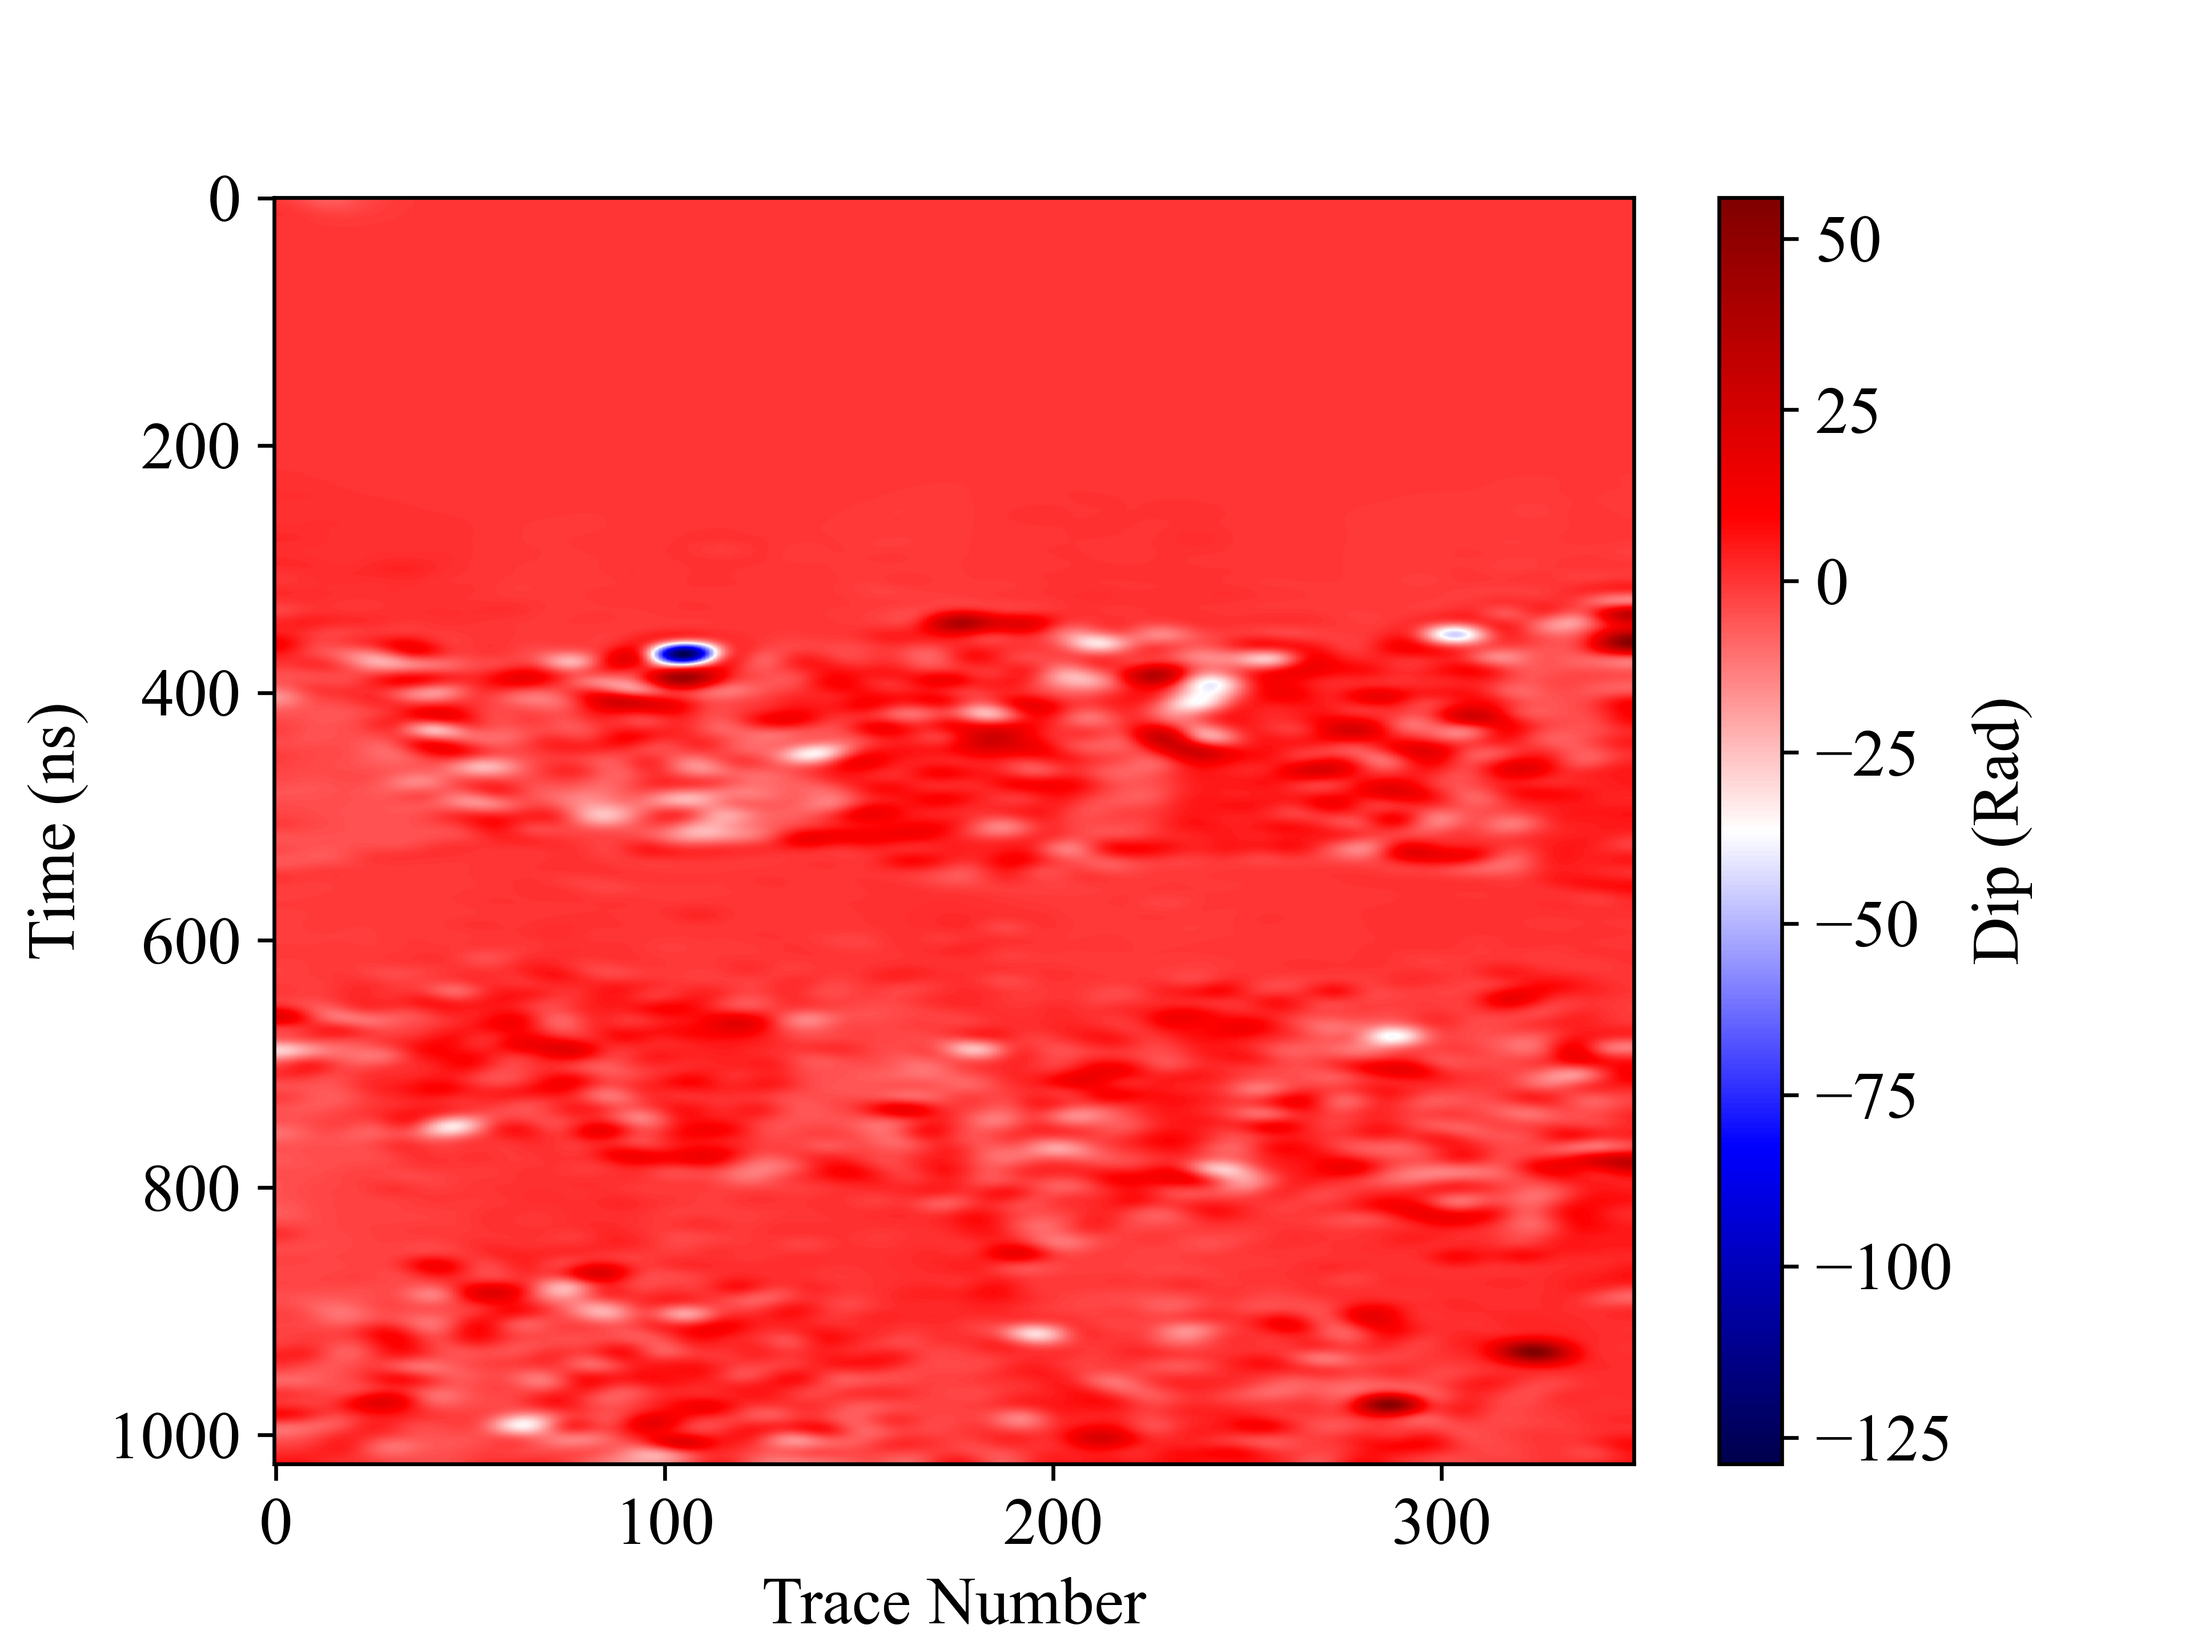
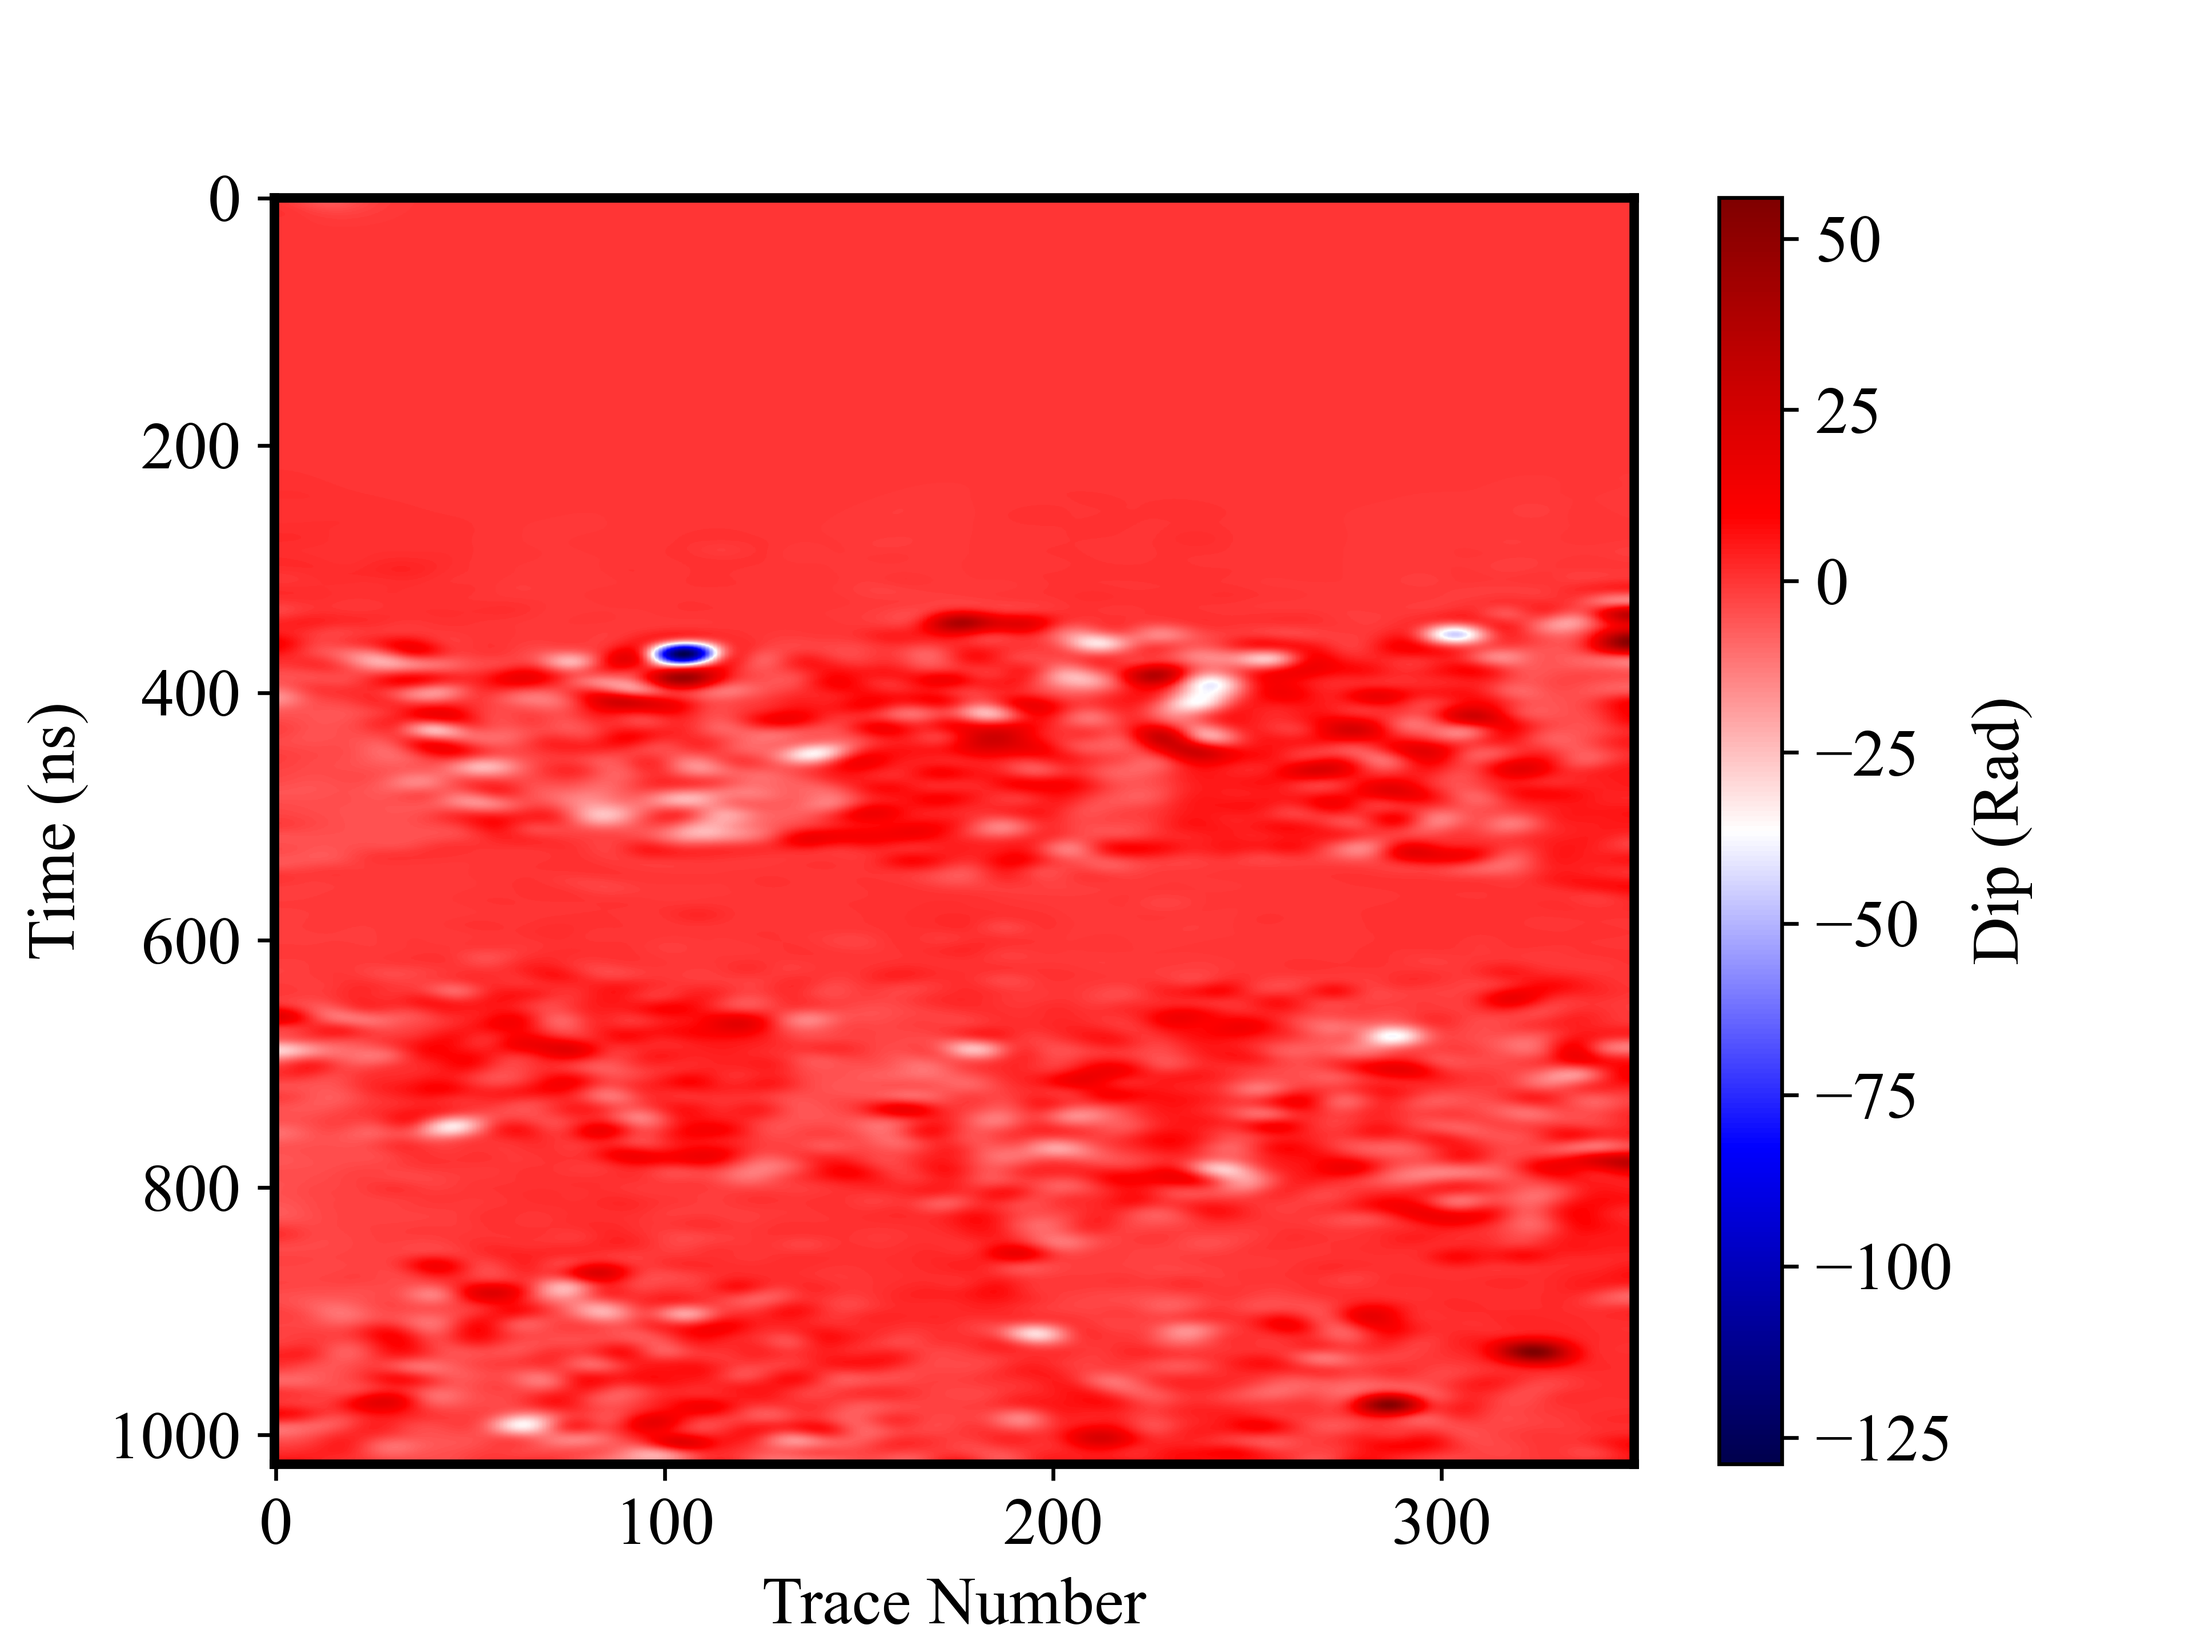
Updated codes for bold axis boundaries

Changed region(s): [[0.125, 0.875, 0.75, 0.9062], [0.125, 0.0938, 0.75, 0.125]]

diff --git a/code2D/PWD/plot.py b/code2D/PWD/plot.py
@@ -67,6 +67,11 @@ plt.imshow(sec, cmap=cm.gray, aspect='auto')
 plt.xlabel('Trace Number')
 plt.ylabel('Time (ns)')
 plt.colorbar().set_label(r'$E_z \quad (V/m)$')
+ax = plt.gca()
+ax.spines['right'].set_linewidth(2)
+ax.spines['top'].set_linewidth(2)
+ax.spines['left'].set_linewidth(2)
+ax.spines['bottom'].set_linewidth(2)
 plt.savefig(path+'PWD_'+model+'_sec.png', dpi=600)
 
 plt.figure(3)
@@ -75,6 +80,11 @@ plt.imshow(dip, cmap=cm.seismic, aspect='auto')
 plt.xlabel('Trace Number')
 plt.ylabel('Time (ns)')
 plt.colorbar().set_label('Dip (Rad)')
+ax = plt.gca()
+ax.spines['right'].set_linewidth(2)
+ax.spines['top'].set_linewidth(2)
+ax.spines['left'].set_linewidth(2)
+ax.spines['bottom'].set_linewidth(2)
 plt.savefig(path+'PWD_'+model+'_dip.png', dpi=600)
 
 
